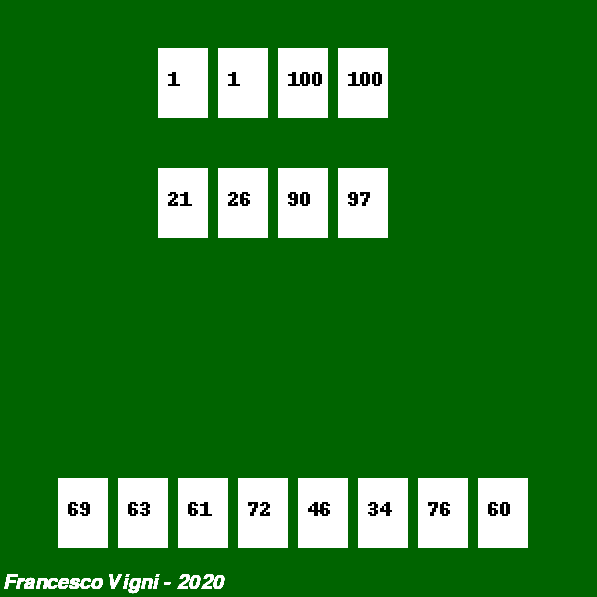
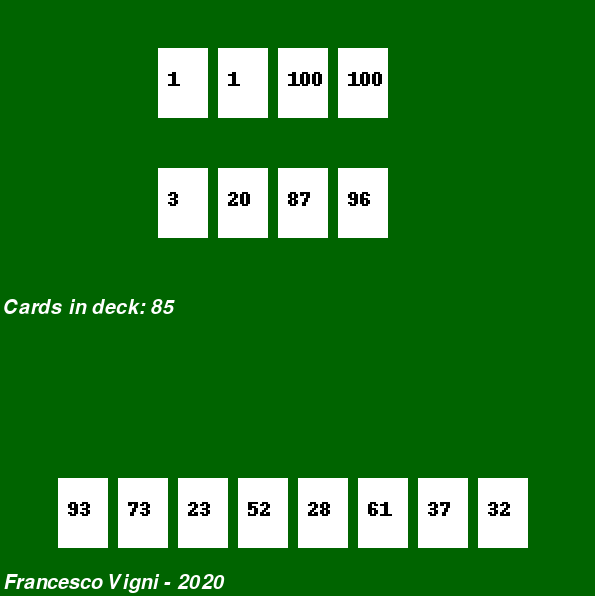
Update

diff --git a/game/player.py b/game/player.py
@@ -229,6 +229,6 @@ def copyright():
 
 def cards_in_deck(deck):
     l = len(deck)
-    textsurface = italic.render("{0}".format(l), True, (255, 255, 255))
+    textsurface = italic.render("Cards in deck: {0}".format(l), True, (255, 255, 255))
     screen.blit(textsurface,(5,HEIGHT/2))
 
